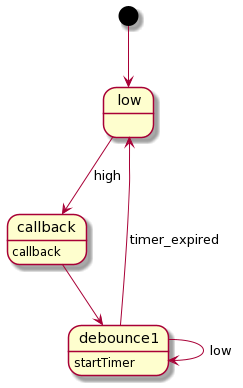
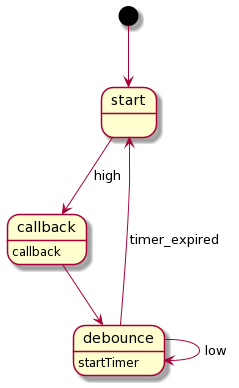
Rename state

diff --git a/include/eventbutton.h b/include/eventbutton.h
@@ -14,7 +14,7 @@ namespace embedded
 
     enum class State
     {
-      low,
+      start,
       callback,
       debouncing1
     };
@@ -30,10 +30,10 @@ namespace embedded
     using FSM = StateMachine<State, Event>;
 
     const FSM::Transition g_transitions[] = {
-        {State::low, Event::high, State::callback},
+        {State::start, Event::high, State::callback},
         {State::callback, Event::nextState, State::debouncing1},
         {State::debouncing1, Event::low, State::debouncing1},
-        {State::debouncing1, Event::timerExpired, State::low}};
+        {State::debouncing1, Event::timerExpired, State::start}};
 
     const FSM::Behavior g_behaviors[] = {
         {State::callback, enterCallback},
@@ -44,7 +44,7 @@ namespace embedded
   {
   public:
     EventButton(unsigned long intervalMs, void (*callback)(), unsigned long (*timeFunc)())
-        : m_callback(callback), m_stateMachine(eventbutton::State::low), m_timer(intervalMs, eventbutton::debounceTimerHandler, timeFunc)
+        : m_callback(callback), m_stateMachine(eventbutton::State::start), m_timer(intervalMs, eventbutton::debounceTimerHandler, timeFunc)
     {
     }
 
